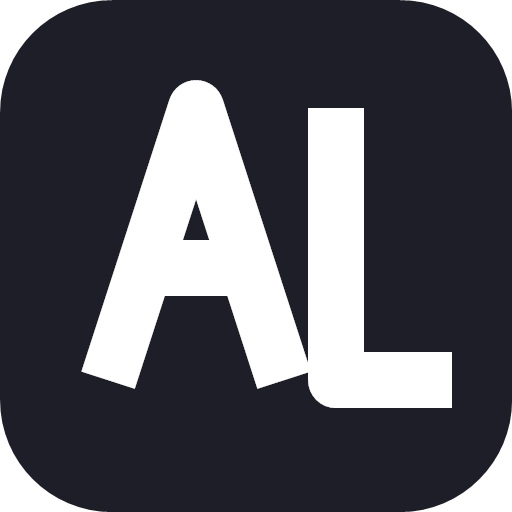
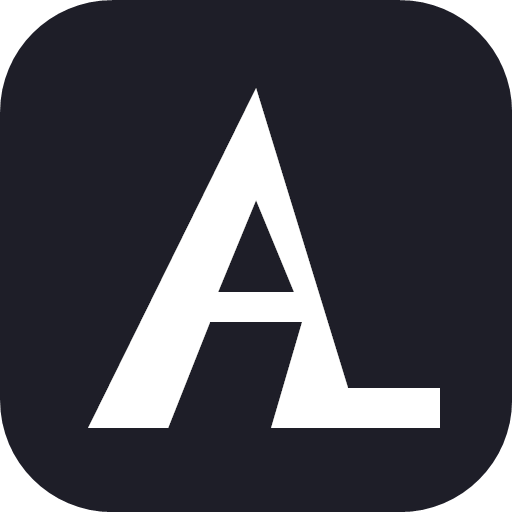
Integrated AL monogram — filled triangular silhouette (v4.19)
Redesigned the mark as a single filled polygon with the A's interior
cut out via evenodd fill rule. Outer silhouette: bold A triangle where
the right leg's baseline extends horizontally into an L foot. Two
inner cuts carve the negative space above and below the A's crossbar,
with the lower cut opening to the base so the A has proper separate
feet.

Reads as a bold geometric AL monogram — the letters are integrated
into one shape rather than sitting side by side. Verified legible from
76px through 512px.

icon.svg, topbar mark in index.html, and all 7 PNGs regenerated from
the shared coordinate space. gen-icons.ps1 updated to draw the same
polygon geometry natively.

Changed region(s): [[0.1562, 0.1562, 0.9062, 0.8438]]

diff --git a/index.html b/index.html
@@ -59,14 +59,15 @@
         <rect width="512" height="512" rx="112" fill="url(#lm-grad)"/>
         <rect width="512" height="280" rx="112" fill="url(#lm-shine)"/>
         <rect x="7" y="7" width="498" height="498" rx="105" stroke="white" stroke-opacity="0.18" stroke-width="14" fill="none"/>
-        <!-- A + L monogram — matches the home-screen icon so the mark is
-             consistent whether the user sees the topbar or the PWA icon. -->
-        <path d="M 108 380 L 196 108 L 284 380 M 140 268 L 252 268"
-              stroke="white" stroke-width="56"
-              stroke-linecap="butt" stroke-linejoin="round" fill="none"/>
-        <path d="M 336 108 L 336 380 L 452 380"
-              stroke="white" stroke-width="56"
-              stroke-linecap="butt" stroke-linejoin="round" fill="none"/>
+        <!-- AL monogram — filled triangular silhouette with the A's
+             interior negative-space cut out via evenodd. Right leg's
+             baseline extends into an L foot. Matches icon.svg exactly
+             so the mark is consistent across topbar + PWA icon. -->
+        <path fill="white" fill-rule="evenodd" d="
+          M 88 428 L 256 88 L 348 388 L 440 388 L 440 428 Z
+          M 256 200 L 218 292 L 294 292 Z
+          M 210 322 L 302 322 L 271 428 L 168 428 Z
+        "/>
       </svg>
       <div class="logo">AniLog</div>
     </div>
@@ -363,7 +364,7 @@
       </div>
 
       <div style="text-align:center; padding: 30px 20px 10px; font-size: 11px; color: var(--text-faint);">
-        AniLog · v4.18 · Powered by AniList
+        AniLog · v4.19 · Powered by AniList
       </div>
     </section>
 

diff --git a/sw.js b/sw.js
@@ -9,7 +9,7 @@
 //   - For everything else (AniList GraphQL, AniList images), bypass —
 //     we don't want stale data or 1+ GB of cover-image storage.
 
-const VERSION = 'anilog-v34';
+const VERSION = 'anilog-v35';
 const SHELL = [
   './',
   './index.html',
